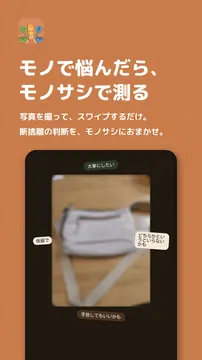
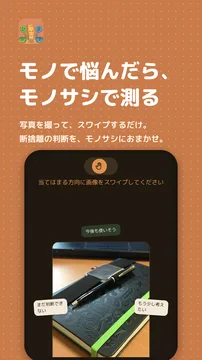
monosashi: ストア画像の差し替えに合わせて紹介ページのスクリーンショットを更新(7枚構成)
Claude-Session: https://claude.ai/code/session_018xhQ9sDB5xy3bKDpHTgY7G

diff --git a/monosashi/index.html b/monosashi/index.html
@@ -49,8 +49,7 @@
     "https://tya-kaihatsu.com/monosashi/images/store/04.webp",
     "https://tya-kaihatsu.com/monosashi/images/store/05.webp",
     "https://tya-kaihatsu.com/monosashi/images/store/06.webp",
-    "https://tya-kaihatsu.com/monosashi/images/store/07.webp",
-    "https://tya-kaihatsu.com/monosashi/images/store/08.webp"
+    "https://tya-kaihatsu.com/monosashi/images/store/07.webp"
   ],
   "featureList": [
     "迷うものを撮影して記録",
@@ -696,13 +695,12 @@
         <li><a class="gallery-thumb" href="./images/store/feature.webp"><img src="./images/store/feature-thumb.webp" width="737" height="360" alt="モノサシ ストア画像(フィーチャーグラフィック)" loading="lazy" decoding="async"></a></li>
         <li><a class="gallery-thumb" href="./images/store/01.webp"><img src="./images/store/01-thumb.webp" width="202" height="360" alt="モノサシ スクリーンショット 1" loading="lazy" decoding="async"></a></li>
         <li><a class="gallery-thumb" href="./images/store/02.webp"><img src="./images/store/02-thumb.webp" width="640" height="360" alt="モノサシ スクリーンショット 2" loading="lazy" decoding="async"></a></li>
-        <li><a class="gallery-thumb" href="./images/store/03.webp"><img src="./images/store/03-thumb.webp" width="202" height="360" alt="モノサシ スクリーンショット 3" loading="lazy" decoding="async"></a></li>
+        <li><a class="gallery-thumb" href="./images/store/03.webp"><img src="./images/store/03-thumb.webp" width="640" height="360" alt="モノサシ スクリーンショット 3" loading="lazy" decoding="async"></a></li>
         <li><a class="gallery-thumb" href="./images/store/04.webp"><img src="./images/store/04-thumb.webp" width="640" height="360" alt="モノサシ スクリーンショット 4" loading="lazy" decoding="async"></a></li>
         <li><a class="gallery-thumb" href="./images/store/05.webp"><img src="./images/store/05-thumb.webp" width="202" height="360" alt="モノサシ スクリーンショット 5" loading="lazy" decoding="async"></a></li>
         <li><a class="gallery-thumb" href="./images/store/06.webp"><img src="./images/store/06-thumb.webp" width="202" height="360" alt="モノサシ スクリーンショット 6" loading="lazy" decoding="async"></a></li>
         <li><a class="gallery-thumb" href="./images/store/07.webp"><img src="./images/store/07-thumb.webp" width="202" height="360" alt="モノサシ スクリーンショット 7" loading="lazy" decoding="async"></a></li>
-        <li><a class="gallery-thumb" href="./images/store/08.webp"><img src="./images/store/08-thumb.webp" width="202" height="360" alt="モノサシ スクリーンショット 8" loading="lazy" decoding="async"></a></li>
-      </ul>
+              </ul>
     </section>
 
     <!-- できること一覧 -->
